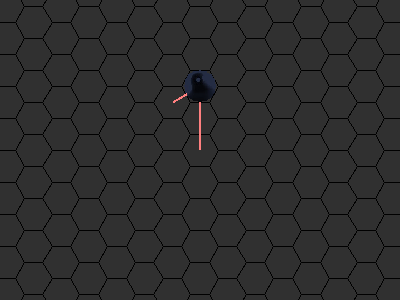
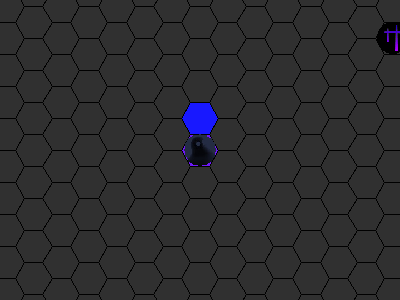
Bugfixes, operational once again
I can't wait until I get to break it again by adding "better practice" features

Changed region(s): [[0.42, 0.24, 0.54, 0.57], [0.93, 0.06, 1.0, 0.18]]

diff --git a/src/main/java/botmanager/frostbalance/menu/AllegianceMenu.kt b/src/main/java/botmanager/frostbalance/menu/AllegianceMenu.kt
@@ -1,0 +1,63 @@
+package botmanager.frostbalance.menu
+
+import botmanager.frostbalance.Frostbalance
+import net.dv8tion.jda.api.EmbedBuilder
+import botmanager.frostbalance.Nation
+import java.awt.Color
+
+class AllegianceMenu @JvmOverloads constructor(bot: Frostbalance, var cause: Cause = Cause.NOT_SET) : Menu(bot) {
+    override fun getMEBuilder(): EmbedBuilder {
+        val builder = EmbedBuilder()
+        if (isClosed) {
+            builder.setTitle("Allegiance set")
+            if (cause == Cause.NOT_SET) {
+                builder.setDescription("You will now claim tiles in the name of " + getActor().playerIn(bot.mainNetwork).allegiance + ". You may now make claims.")
+            } else if (cause == Cause.CHANGE) {
+                builder.setDescription("Your allegiance has been moved to " + getActor().playerIn(bot.mainNetwork).allegiance)
+            }
+            builder.setColor(getActor().playerIn(bot.mainNetwork).allegiance?.color ?: Color.GRAY)
+        } else {
+            builder.setTitle("Set allegiance")
+            if (cause == Cause.NOT_SET) {
+                builder.setDescription("This claim cannot be made. In order to claim tiles, you must first set your allegiance." + ADDENDUM)
+                builder.setColor(Color.GRAY)
+            } else if (cause == Cause.CHANGE) {
+                builder.setDescription("Pick your new allegiance. Current allegiance: " + getActor().playerIn(bot.mainNetwork).allegiance + ADDENDUM)
+                builder.setColor(getActor().playerIn(bot.mainNetwork).allegiance?.color ?: Color.GRAY)
+            }
+        }
+        return builder
+    }
+
+    enum class Cause {
+        NOT_SET, CHANGE
+    }
+
+    companion object {
+        private const val ADDENDUM = "\n*Note: If you change your allegiance, your claims will cease to be valid until you return to your original nation. You **cannot** move claims from one nation to another!*"
+    }
+
+    init {
+        for (nation in Nation.nations) {
+            menuResponses.add(object : MenuResponse(nation.emoji, nation.toString()) {
+                override fun reactEvent() {
+                    getActor().playerIn(bot.mainNetwork).allegiance = nation
+                    close(false)
+                }
+
+                override fun validConditions(): Boolean {
+                    return true
+                }
+            })
+        }
+        menuResponses.add(object : MenuResponse("✖", "Don't change for now") {
+            override fun reactEvent() {
+                close(true)
+            }
+
+            override fun validConditions(): Boolean {
+                return true
+            }
+        })
+    }
+}

diff --git a/src/main/java/botmanager/frostbalance/grid/ClaimData.kt b/src/main/java/botmanager/frostbalance/grid/ClaimData.kt
@@ -38,9 +38,9 @@ class ClaimData(tile: Tile?) : TileData(tile), Container {
             var selectedUserId: String? = null
             var selectedStrength = Influence(0)
             for (claim in activeClaims) {
-                if (claim!!.getNation() !== lastOwningNation) continue
-                if (!claim!!.isActive) continue
-                if (claim.getStrength().compareTo(selectedStrength) > 0 ||
+                if (claim.getNation() !== lastOwningNation) continue
+                if (!claim.isActive) continue
+                if (claim.getStrength() > selectedStrength ||
                         lastOwningUserId == claim.getUserId() && claim.getStrength() == selectedStrength) {
                     selectedUserId = claim.getUserId()
                     selectedStrength = claim.getStrength()
@@ -280,8 +280,8 @@ class ClaimData(tile: Tile?) : TileData(tile), Container {
                     owningNationName,
                     nationalStrength,
                     nationalCompetition)
-            var claims = activeClaims.toMutableList()
-            claims.sortWith(Comparator.comparingInt { x: Claim -> x.getStrength().thousandths })
+            var claims = this.claims.toMutableList()
+            claims.sortByDescending{ x: Claim -> x.getStrength().thousandths }
             if (claims.size > amount) {
                 claims = claims.subList(0, amount)
             }

diff --git a/src/main/java/botmanager/frostbalance/Player.kt b/src/main/java/botmanager/frostbalance/Player.kt
@@ -3,7 +3,7 @@ package botmanager.frostbalance
 import botmanager.frostbalance.grid.Containable
 import botmanager.frostbalance.grid.PlayerCharacter
 
-class Player(@Transient var gameNetwork: GameNetwork, @Transient var userWrapper: UserWrapper) : Containable<UserWrapper> {
+class Player(var networkId: String, @Transient var userWrapper: UserWrapper) : Containable<UserWrapper> {
 
     val character: PlayerCharacter
         get() = gameNetwork.worldMap.getCharacter(this)
@@ -13,6 +13,9 @@ class Player(@Transient var gameNetwork: GameNetwork, @Transient var userWrapper
 
     val guild: GuildWrapper?
         get() = gameNetwork.guildWithAllegiance(allegiance)
+
+    val gameNetwork: GameNetwork
+        get() = userWrapper.bot.getGameNetwork(networkId)
 
     /**
      * Gets this player as though it were a member of the guild it has its allegiance to.

diff --git a/src/main/java/botmanager/frostbalance/GameNetwork.kt b/src/main/java/botmanager/frostbalance/GameNetwork.kt
@@ -42,7 +42,10 @@ class GameNetwork(@Transient var bot: Frostbalance, var id: String) : Containabl
     override fun adopt() {
         worldMap.gameNetwork = this
         worldMap.adopt()
-        associatedGuilds.forEach { guild -> guild.gameNetwork = this }
+        associatedGuilds.forEach { guild ->
+            guild.gameNetwork = this
+            guild.adopt()
+        }
     }
 
     fun guildWithAllegiance(allegiance: Nation?): GuildWrapper? {

diff --git a/src/main/java/botmanager/frostbalance/UserWrapper.kt b/src/main/java/botmanager/frostbalance/UserWrapper.kt
@@ -157,7 +157,7 @@ class UserWrapper(bot: Frostbalance, userId: String) : Container, Containable<Fr
      */
     fun playerIn(gameNetwork: GameNetwork): Player {
         return playerReference.firstOrNull { player -> player.gameNetwork == gameNetwork} ?: let {
-            val player = Player(gameNetwork, this)
+            val player = Player(gameNetwork.id, this)
             playerReference.add(player)
             return player
         }

diff --git a/src/main/java/botmanager/frostbalance/GuildWrapper.kt b/src/main/java/botmanager/frostbalance/GuildWrapper.kt
@@ -54,7 +54,7 @@ class GuildWrapper(@Transient var gameNetwork: GameNetwork, var id: String) : Co
         } else if (oldOptionFlags.contains(OldOptionFlag.BLUE)) {
             Color.BLUE
         } else {
-            Color.LIGHT_GRAY
+            Color.GRAY
         }
 
     override fun toString() : String = if (isOnline()) name!! else name?.let { "~~$it~~" }?:"*Inaccessible Guild*"

diff --git a/src/main/java/botmanager/frostbalance/Frostbalance.kt b/src/main/java/botmanager/frostbalance/Frostbalance.kt
@@ -664,7 +664,7 @@ class Frostbalance(botToken: String?, name: String?) : BotBase(botToken, name) {
                 Color.BLUE
             }
             else -> {
-                Color.LIGHT_GRAY
+                Color.GRAY
             }
         }
     }

diff --git a/src/main/java/botmanager/frostbalance/grid/Claim.java b/src/main/java/botmanager/frostbalance/grid/Claim.java
@@ -73,7 +73,7 @@ public class Claim implements Containable<ClaimData> {
     }
 
     public Influence getStrength() {
-        return strength.subtract(evictionStrength);
+        return isActive() ? strength.subtract(evictionStrength) : Influence.none();
     }
 
     public Influence getInvestedStrength() {
@@ -114,7 +114,7 @@ public class Claim implements Containable<ClaimData> {
     @Override
     public String toString() {
         if (!isActive()) {
-            return "~~" + ownerName() + ": " + getStrength() + "~~";
+            return "~~" + ownerName() + ": " + getInvestedStrength() + "~~";
         }
         if (!getStrength().equals(getInvestedStrength())) {
             return ownerName() + ": ~~" + getInvestedStrength() + "~~ " + getStrength();

diff --git a/src/main/java/botmanager/frostbalance/render/MapRenderer.java b/src/main/java/botmanager/frostbalance/render/MapRenderer.java
@@ -86,7 +86,10 @@ public class MapRenderer {
      */
     private static void renderMovementLine(Graphics2D g, Hex location, Hex destination, PlayerCharacter playerCharacter) {
         g.setStroke(new BasicStroke(2.0f, BasicStroke.CAP_BUTT, BasicStroke.JOIN_BEVEL));
-        Color color = playerCharacter.getNation().getColor();
+        Color color;
+        if (playerCharacter.getNation() != null) {
+            color = playerCharacter.getNation().getColor();
+        } else color = Color.GRAY;
         g.setColor(new Color(Math.max(128, color.getRed()), Math.max(128, color.getGreen()), Math.max(128, color.getBlue())));
         Hex offset = Hex.origin();
         System.out.println("Movement line: " + destination.subtract(location));

diff --git a/src/main/java/botmanager/frostbalance/grid/Tile.java b/src/main/java/botmanager/frostbalance/grid/Tile.java
@@ -8,7 +8,7 @@ public class Tile implements Containable<WorldMap>, Container {
 
     transient WorldMap map;
 
-    ClaimData claimData;
+    ClaimData claimData = new ClaimData(this);
 
     /**
      * A list of all objects currently on this tile.
@@ -65,7 +65,7 @@ public class Tile implements Containable<WorldMap>, Container {
         for (TileObject tileObject: objects) {
             tileObject.setParent(this);
         }
-        claimData.setParent(this);
+        getClaimData().setParent(this);
         claimData.adopt();
     }
 
